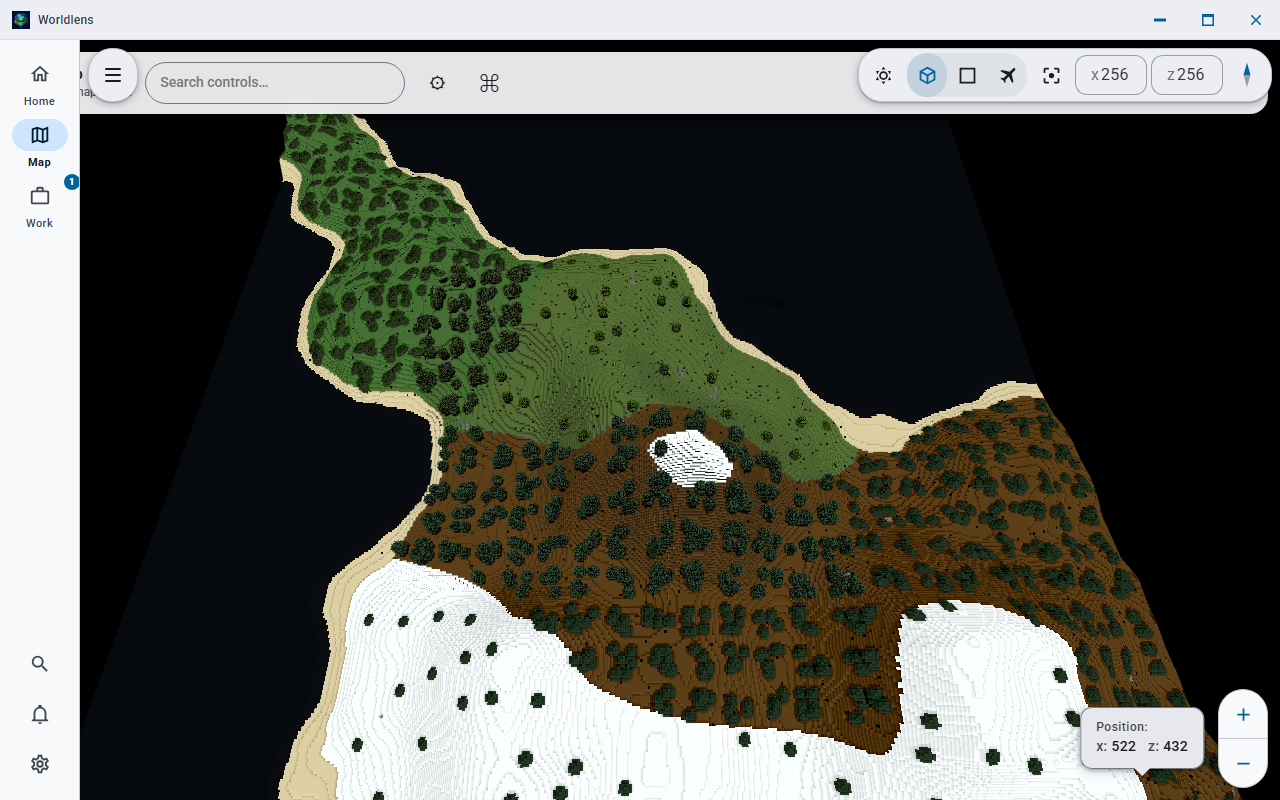
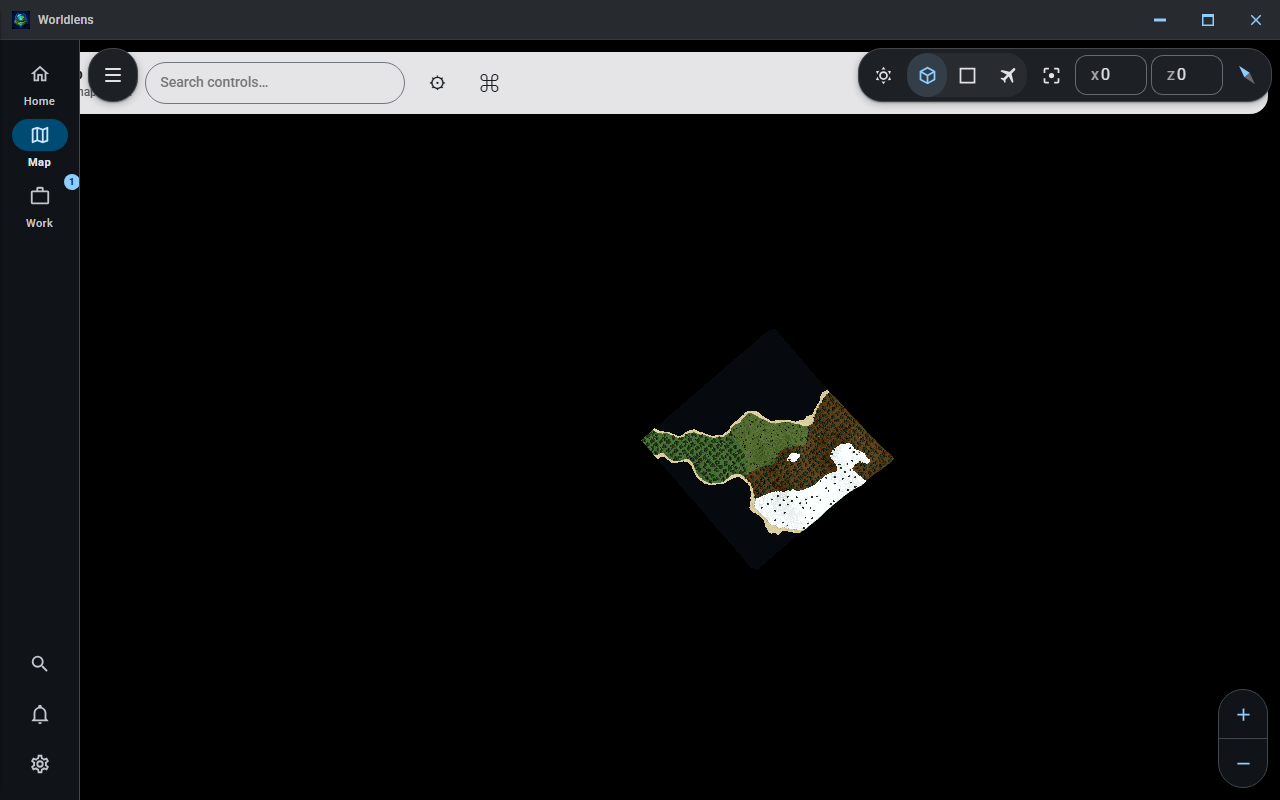
fix(app): photograph the theme by using the theme control, not a media query
The light and dark captures were byte-different and pixel-identical in every
piece of chrome, and the reason is the plainest version of a defect this
repository keeps finding: the lever had no reader.

The test set `emulateMedia({ colorScheme })` and nothing else. The application
consults `prefers-color-scheme` only while the chosen theme is "follow the
system", and a fresh profile does not choose that - the shipped fresh-install
theme is an explicit dark. So the media query moved nothing, in either direction,
and the two files differed only in the noise of a live camera. That also disposes
of the other candidate explanation outright: no amount of waiting helps a control
that reaches nothing.

The capture now drives the real control. It opens the display settings, presses
the theme row by position rather than by label - the labels are localized and the
framework upper-cases them - and then waits on the *applied* value: the rail's
own resolved surface custom property equalling that scheme's surface from the
shared colour module. Not a timeout. It also selects the Map destination first,
so the pair is finally a photograph of the surface it has always claimed to be.

The regression test asserts the photograph rather than the setting: it reads the
written PNG, takes the modal colour over the rail's real bounding box, and
requires it to equal each scheme's surface and the two to differ. A test that
read the theme back out of the application would have passed happily throughout
[…]

diff --git a/design/packages/app/test/screenshots.spec.ts b/design/packages/app/test/screenshots.spec.ts
@@ -111,6 +111,8 @@ import { execFileSync } from "node:child_process";
 import { tmpdir } from "node:os";
 import { dirname, join, resolve } from "node:path";
 import { fileURLToPath } from "node:url";
+import sharp from "sharp";
+import { COLOR_SCHEMES, DARK_SCHEME, LIGHT_SCHEME, type SchemeName } from "@worldlens/shared";
 import { migrationEnvironment, resolveCaptureTarget } from "./captureTarget.js";
 import type { CaptureTarget } from "./captureTarget.js";
 import {
@@ -677,9 +679,7 @@ async function openJob(pageId: string, name: RegExp, label: string): Promise<voi
         // Every route failed. Say what the strip actually held rather than reporting a timeout on
         // a locator, which names the thing that was not found and nothing about why - and on a run
         // that mostly happens in CI, that difference is the whole diagnosis.
-        throw new Error(
-            `no route to the "${pageId}" job. ` + (await describeShellStrip()),
-        );
+        throw new Error(`no route to the "${pageId}" job. ` + (await describeShellStrip()));
     }
 
     await overflowButton.click({ timeout: ELEMENT_TIMEOUT });
@@ -738,7 +738,9 @@ async function describeShellStrip(): Promise<string> {
     const shellTabs = workTabs();
     const tabs = await shellTabs
         .locator('[role="tab"]')
-        .evaluateAll((nodes) => nodes.map((node) => node.getAttribute("aria-label") ?? node.textContent ?? ""))
+        .evaluateAll((nodes) =>
+            nodes.map((node) => node.getAttribute("aria-label") ?? node.textContent ?? ""),
+        )
         .catch(() => []);
     const heads = shellTabs.locator(".mb-tabs-strip__group-head");
     const groups: string[] = [];
@@ -1663,13 +1665,203 @@ test("captures the map popup retained at the lower-right viewport edge", async (
  * red run rather than a quietly shorter gallery.
  */
 
-test("captures both themes", async () => {
-    for (const theme of ["light", "dark"] as const) {
-        await page.emulateMedia({ colorScheme: theme });
-        await page.waitForTimeout(300);
-        await shoot(`theme-${theme}`, `The application shell in the ${theme} theme`);
+/**
+ * The scheme's own `surface`, as Vuetify writes it into a custom property: `"248,249,251"`.
+ *
+ * Read from `@worldlens/shared`, which is where the three schemes live and the only place
+ * they live - the Vuetify themes in `packages/ui/src/vuetify.ts` are built from these exact
+ * objects. A literal here would be a second authority that agrees with the product until
+ * somebody edits one of them.
+ */
+function surfaceTriple(scheme: SchemeName): string {
+    const hex = COLOR_SCHEMES[scheme].surface.replace("#", "");
+    const channel = (at: number): number => Number.parseInt(hex.slice(at, at + 2), 16);
+    return `${channel(0)},${channel(2)},${channel(4)}`;
+}
+
+/**
+ * Chooses a colour scheme the way a person does, and waits until it has actually been painted.
+ *
+ * `page.emulateMedia({ colorScheme })` stood here, and it moved nothing whatsoever. The app
+ * consults `prefers-color-scheme` only while the chosen theme is "follow the system", and a
+ * fresh profile does not choose that: `themeSetting.ts`'s `FRESH_INSTALL_THEME` is an explicit
+ * dark, deliberately, so that a majority of installs do not open with a bright frame around a
+ * lit 3D world. So the media query the harness was emulating had no reader, and the pair it
+ * produced was one picture written to two filenames - byte-identical, same md5, in both the
+ * no-map and the map-loaded runs. It photographed a colour-scheme switch in which nothing
+ * switched, and nothing about it looked wrong: two files, two captions, a green test.
+ *
+ * The wait is on the applied value rather than on a timeout for the same reason: a fixed
+ * `waitForTimeout` after a control that reaches nothing waits exactly as successfully as one
+ * after a control that works. `--v-theme-surface` is what the rail and the panels behind this
+ * capture are actually painted from, so a wait that sees it change has seen the thing the
+ * photograph is about to record.
+ */
+async function chooseColourScheme(scheme: "dark" | "light"): Promise<void> {
+    await openSettingsSection("display", "Display and ease of use");
+
+    /*
+     * By position, not by label. `THEME_CHOICES` in `themeSetting.ts` is the order the row
+     * renders - follow the system, dark, light, contrast - while the labels are localised and
+     * Vuetify upper-cases them in CSS, which is the trap this file's own header warns about:
+     * an accessible name computed after `text-transform` matches nothing and fails as a
+     * timeout rather than as a not-found.
+     */
+    const choices = page.locator(`${APP_SETTINGS} .mb-theme-row__toggle .v-btn`);
+    await choices.first().waitFor({ state: "visible", timeout: ELEMENT_TIMEOUT });
+    await choices.nth(scheme === "dark" ? 1 : 2).click({ timeout: ELEMENT_TIMEOUT });
+
+    // The settings panel covers the destination this capture is of, so it goes away before the
+    // wait rather than after it - the scheme applies to the whole shell either way.
+    await dismiss();
+
+    /*
+     * Escape hands focus back to the button that opened the panel, which is correct behaviour and
+     * ruins the photograph: that button is the rail's Settings, a focused rail button shows its
+     * tooltip, and the capture then publishes a floating black label over the interface with a
+     * focus ring beside it. `parkPointer` already solves the hover half of exactly this; nothing
+     * solved the focus half, because until now nothing in this file opened a panel and then
+     * photographed what was behind it.
+     */
+    await page.evaluate(() => {
+        const focused = document.activeElement;
+        if (focused instanceof HTMLElement) focused.blur();
+    });
+
+    const expected = surfaceTriple(scheme);
+    await page.waitForFunction(
+        (want: string) => {
+            const root = document.querySelector(".mb-app");
+            if (root === null) return false;
+            return (
+                getComputedStyle(root)
+                    .getPropertyValue("--v-theme-surface")
+                    .replace(/\s+/gu, "") === want
+            );
+        },
+        expected,
+        { timeout: ELEMENT_TIMEOUT },
+    );
+    await page.waitForTimeout(400);
+}
+
+/**
+ * The colour that covers most of a capture's application rail.
+ *
+ * Modal rather than a single sampled pixel because the rail carries icons, a selected
+ * destination's pill and a badge; a fixed coordinate lands on one of them the first time
+ * somebody adds a destination, and the assertion then fails for a reason that has nothing to
+ * do with the theme. The rail's own bounding box comes from the running page, so this does not
+ * encode where the rail happens to sit today either.
+ */
+async function dominantRailColour(
+    file: string,
+    box: { x: number; y: number; width: number; height: number },
+    pageWidth: number,
+): Promise<string> {
+    const image = sharp(file);
+    const meta = await image.metadata();
+    const scale = (meta.width ?? pageWidth) / pageWidth;
+    const region = {
+        left: Math.round(box.x * scale),
+        top: Math.round(box.y * scale),
+        width: Math.max(1, Math.round(box.width * scale)),
+        height: Math.max(1, Math.round(box.height * scale)),
+    };
+
+    const { data, info } = await sharp(file)
+        .extract(region)
+        .raw()
+        .toBuffer({ resolveWithObject: true });
+
+    const tally = new Map<string, number>();
+    for (let at = 0; at + info.channels <= data.length; at += info.channels) {
+        const hex = `#${[data[at]!, data[at + 1]!, data[at + 2]!]
+            .map((value) => value.toString(16).padStart(2, "0").toUpperCase())
+            .join("")}`;
+        tally.set(hex, (tally.get(hex) ?? 0) + 1);
     }
-    await page.emulateMedia({ colorScheme: null });
+
+    let winner = "";
+    let best = -1;
+    for (const [hex, count] of tally) {
+        if (count > best) {
+            winner = hex;
+            best = count;
+        }
+    }
+    return winner;
+}
+
+test("captures both themes", async () => {
+    test.setTimeout(SURFACE_TIMEOUT);
+
+    /*
+     * The map destination, because it is the one this pair is documented as being of and the one
+     * that carries the surface most likely to be left behind by a theme: the viewer's own control
+     * bar, which is the viewer's chrome rather than the shell's and reads the same tokens only
+     * because `styles/markers.scss` maps them across.
+     */
+    await selectDestination("map");
+
+    /*
+     * There is no camera settle before these two captures, and that is a decision rather than an
+     * omission. The viewer's camera is live and keeps moving on its own, so the two shots - which
+     * are now seconds apart, because changing the scheme means opening a panel and pressing a real
+     * control rather than emulating a media query - show the world a few degrees apart. Measured
+     * across one pair: about 5% of the map area differs, and it does not converge, so a wait for
+     * two matching frames would burn its whole budget every run and then fall out of the loop
+     * reporting success. That is a timeout wearing a wait's clothing, which this file has been
+     * bitten by before. The chrome is what this pair is of; the caption says so, and the assertion
+     * below reads the chrome rather than the world.
+     */
+
+    const rail = page.locator(".wl-rail").first();
+    const viewport = page.viewportSize();
+    expect(
+        viewport,
+        "no viewport size; the capture would have no scale to measure against",
+    ).not.toBeNull();
+
+    const painted = new Map<string, string>();
+
+    for (const scheme of ["light", "dark"] as const) {
+        await chooseColourScheme(scheme);
+        await shoot(`theme-${scheme}`, `The application shell in the ${scheme} theme`);
+
+        const box = await rail.boundingBox();
+        expect(
+            box,
+            `the application rail was not on screen for the ${scheme} capture`,
+        ).not.toBeNull();
+        painted.set(
+            scheme,
+            await dominantRailColour(join(shotDir, `theme-${scheme}.png`), box!, viewport!.width),
+        );
+    }
+
+    /*
+     * The assertion is on the photograph, not on the setting.
+     *
+     * A test that reads the theme back out of the app would have passed throughout the entire
+     * period these two files were identical: the value was always stored, and storing it was
+     * never the thing that was broken. So this reads the pixels that were actually written to
+     * disk, against the schemes in `@worldlens/shared` that the product itself is painted from.
+     */
+    expect(painted.get("light"), "the light capture's rail is not the light scheme's surface").toBe(
+        LIGHT_SCHEME.surface.toUpperCase(),
+    );
+    expect(painted.get("dark"), "the dark capture's rail is not the dark scheme's surface").toBe(
+        DARK_SCHEME.surface.toUpperCase(),
+    );
+    expect(
+        painted.get("light"),
+        "the two colour-scheme captures are the same picture; the scheme reached nothing",
+    ).not.toBe(painted.get("dark"));
+
+    // Left the way a fresh install opens, so every capture after this one is the shipped default
+    // rather than whichever scheme this test happened to finish on.
+    await chooseColourScheme("dark");
 });
 
 /* -------------------------------------------------------------------------- */
@@ -2544,7 +2736,7 @@ test("captures the notification corner and its history", async () => {
     skip(
         "Notification centre opened from the rail's bell",
         "the rail's Notifications button does not open the panel it anchors: pressing it on a " +
-            "fresh profile leaves its own aria-expanded at \"false\" and puts neither " +
+            'fresh profile leaves its own aria-expanded at "false" and puts neither ' +
             ".wl-notifications nor .mb-notice-centre in the document, while the command palette's " +
             "row for the same panel opens it every time. The panel itself is captured above " +
             "through that working route; what has no honest capture is the bell working",

diff --git a/docs/screenshots/captions.md b/docs/screenshots/captions.md
@@ -132,15 +132,15 @@ The block-coordinate popup opened from a real map click near the lower-right vie
 
 ## theme-light
 
-![The application shell in the light theme](theme-light.png)
+![The application shell in the light theme, on the Map destination: title bar, application rail and viewer control bar all drawn on light surfaces](theme-light.png)
 
-The application shell in the light theme. Real Electron app. The map was rendered by upstream BlueMap Java engine (CLI 5.22-27), built from the vendored source in this repository from a synthetic world this repository generated (seed 1, 512x512 blocks), and is served to the app over loopback by this repository's own map handler. What it proves is the viewer port, the embedded server and the reverse proxy. The TypeScript mesher in packages/engine rendered none of it. In this image, no map is loaded, so the application is showing the wizard for making one.
+The application shell in the light theme, on the Map destination, with the light scheme chosen through the app's own theme control in Settings. Real Electron app. The map was rendered by upstream BlueMap Java engine (CLI 5.22-27), built from the vendored source in this repository from a synthetic world this repository generated (seed 1, 512x512 blocks), and is served to the app over loopback by this repository's own map handler. What it proves is the viewer port, the embedded server and the reverse proxy. The TypeScript mesher in packages/engine rendered none of it. In this image, the map area shows that locally rendered world. Paired with `theme-dark.png`: the two are the same destination moments apart, so the chrome differs by scheme while the world beneath sits a few degrees around, because the viewer's camera is live and choosing a scheme takes a real trip through Settings.
 
 ## theme-dark
 
-![The application shell in the dark theme](theme-dark.png)
+![The application shell in the dark theme, on the Map destination: title bar, application rail and viewer control bar all drawn on dark surfaces](theme-dark.png)
 
-The application shell in the dark theme. Real Electron app. The map was rendered by upstream BlueMap Java engine (CLI 5.22-27), built from the vendored source in this repository from a synthetic world this repository generated (seed 1, 512x512 blocks), and is served to the app over loopback by this repository's own map handler. What it proves is the viewer port, the embedded server and the reverse proxy. The TypeScript mesher in packages/engine rendered none of it. In this image, no map is loaded, so the application is showing the wizard for making one.
+The application shell in the dark theme - what a fresh install opens in - on the Map destination, with the dark scheme chosen through the app's own theme control in Settings. Real Electron app. The map was rendered by upstream BlueMap Java engine (CLI 5.22-27), built from the vendored source in this repository from a synthetic world this repository generated (seed 1, 512x512 blocks), and is served to the app over loopback by this repository's own map handler. What it proves is the viewer port, the embedded server and the reverse proxy. The TypeScript mesher in packages/engine rendered none of it. In this image, the map area shows that locally rendered world. Paired with `theme-light.png`: the rail is `#101418` here against `#F8F9FB` there, which are the two schemes' own `surface` values in `packages/shared/src/colorRoles.ts`.
 
 ## menu-root
 

diff --git a/README.md b/README.md
@@ -308,8 +308,8 @@ is the same action.
 | -------------------------------------------------------------------------------------------------------------- | -------------------------------------------------------------------------------------------------------------------------------------------- |
 | <img src="docs/screenshots/shell-1920x1080.png" alt="Home and the application rail at 1920 by 1080 pixels, with all five catalogue cards in view" width="420">      | <img src="docs/screenshots/shell-800x600-narrow.png" alt="Home at 800 by 600 pixels, the narrowest supported window, where the rail keeps its labels and the Make a map card stacks its two buttons" width="420"> |
 | 1920x1080                                                                                                      | 800x600, the narrowest supported width                                                                                                       |
-| <img src="docs/screenshots/theme-light.png" alt="The Map destination with the light colour scheme selected: the rail, the viewer control bar and a rendered world of forest, bare ground and snow" width="420">      | <img src="docs/screenshots/theme-dark.png" alt="The Map destination with the dark colour scheme selected, at the same camera position; the title bar, rail and control bar are drawn the same either way" width="420">                                      |
-| Light scheme                                                                                                   | Dark scheme. **These two are the same view, and that is the point of the pair:** the colour scheme does not reach the map view's chrome in this build, so nothing in frame changes between them |
+| <img src="docs/screenshots/theme-light.png" alt="The Map destination with the light colour scheme chosen: title bar, application rail, viewer control bar and zoom buttons all on light surfaces, around a rendered world of forest, bare ground and snow" width="420">      | <img src="docs/screenshots/theme-dark.png" alt="The Map destination with the dark colour scheme chosen: the same title bar, rail, control bar and zoom buttons, all on dark surfaces, around the same world" width="420">                                      |
+| Light scheme                                                                                                   | Dark scheme, which is what a fresh install opens in. Both were taken by choosing the scheme in Settings, so the rail is the scheme's own `surface` in each: `#F8F9FB` against `#101418`. The world sits a few degrees around between them because the viewer's camera is live and the trip through Settings takes a moment |
 | <img src="docs/screenshots/shell-scale-1x.png" alt="Home and the application rail at 100 percent display scale" width="420"> | <img src="docs/screenshots/shell-scale-2x.png" alt="Home and the application rail at 200 percent display scale, everything twice the size in a window that has not grown" width="420">                               |
 | 100% display scale                                                                                             | 200% display scale                                                                                                                           |
 

diff --git a/docs/site/action-walkthroughs.md b/docs/site/action-walkthroughs.md
@@ -12,9 +12,18 @@ Replay action and a link to the feature article. Replay does nothing in reduced-
 
 ## Inventory and provenance
 
-The source frames are genuine built Worldlens app/site captures. They are explanatory sequences,
-not claims that the branch is already deployed. The final live Pages capture and workflow remain a
-separate release gate.
+The source frames are genuine built app/site captures. They are explanatory sequences, not claims
+that the branch is already deployed. The final live Pages capture and workflow remain a separate
+release gate.
+
+One row is worth reading before the rest of the table is trusted. `theme-switch.gif` named
+`theme-light.png` and `theme-dark.png` as its frames, and those two files were byte-identical for
+as long as the harness produced them - so on the face of it that GIF was a colour-scheme switch in
+which nothing switched. It is not: its two frames genuinely go light to dark, and they are a
+*different* capture entirely, of a pre-rewrite build's render-location wizard step under the old
+product name. The column has been corrected to say what the frames actually are. A provenance line
+that names the wrong source is worse than an empty one, because it survives every check that reads
+the line rather than the picture.
 
 | Action | GIF | Bytes | Real source frames |
 |---|---:|---:|---|
@@ -22,7 +31,7 @@ separate release gate.
 | Open the global command palette | `command-palette.gif` | 36,107 | Current branch production build, Home and opened palette |
 | Search every documentation article | `documentation-search.gif` | 33,167 | Current branch production build, Home and Search surfaces |
 | Build and apply a regular expression | `regex-builder.gif` | 36,180 | `settings-search.png`, `settings-regex-builder.png` |
-| Switch the live colour scheme | `theme-switch.gif` | 47,388 | `theme-light.png`, `theme-dark.png` |
+| Switch the live colour scheme | `theme-switch.gif` | 47,388 | a pre-rewrite *Material BlueMap* build's "Where this render runs" wizard step, light and dark - **not** `theme-light.png` / `theme-dark.png`, which this column used to name |
 | Change language and both tone levels | `language-tone.gif` | 41,502 | `settings-section-language-and-tone.png`, compact bilingual Pages proof |
 | Create and collapse a tab group | `tab-groups.gif` | 30,960 | compact Pages tab/group proof, bottom-tab proof |
 | Find a tab across the workspace | `tab-discovery.gif` | 33,474 | real root and search menu captures |
